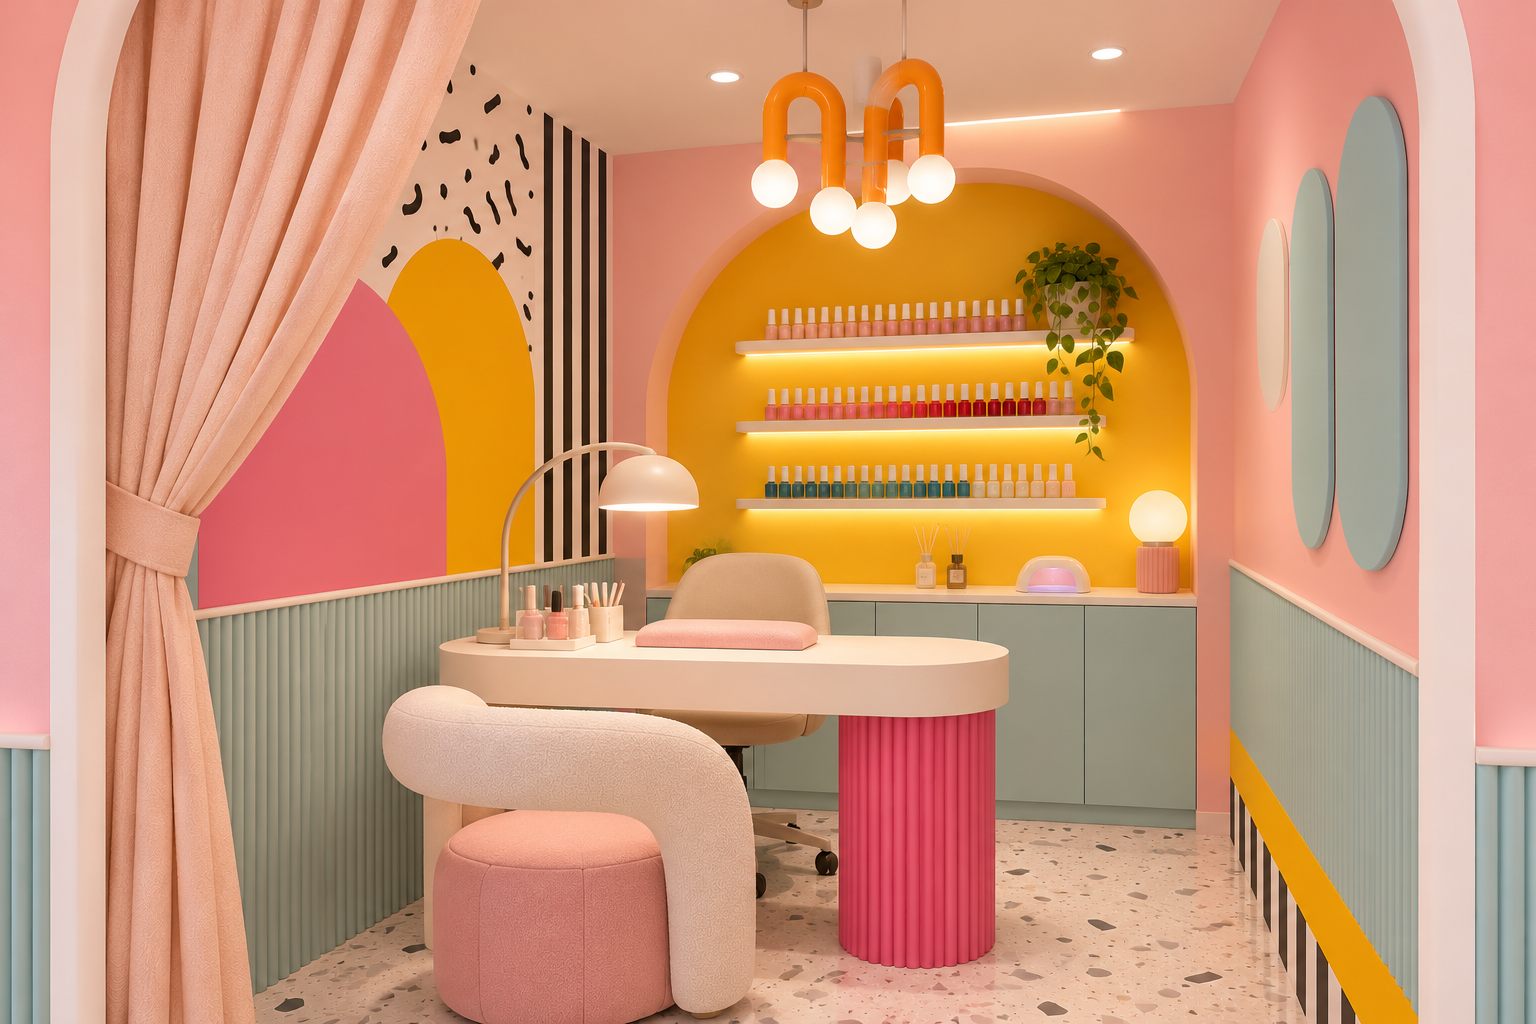
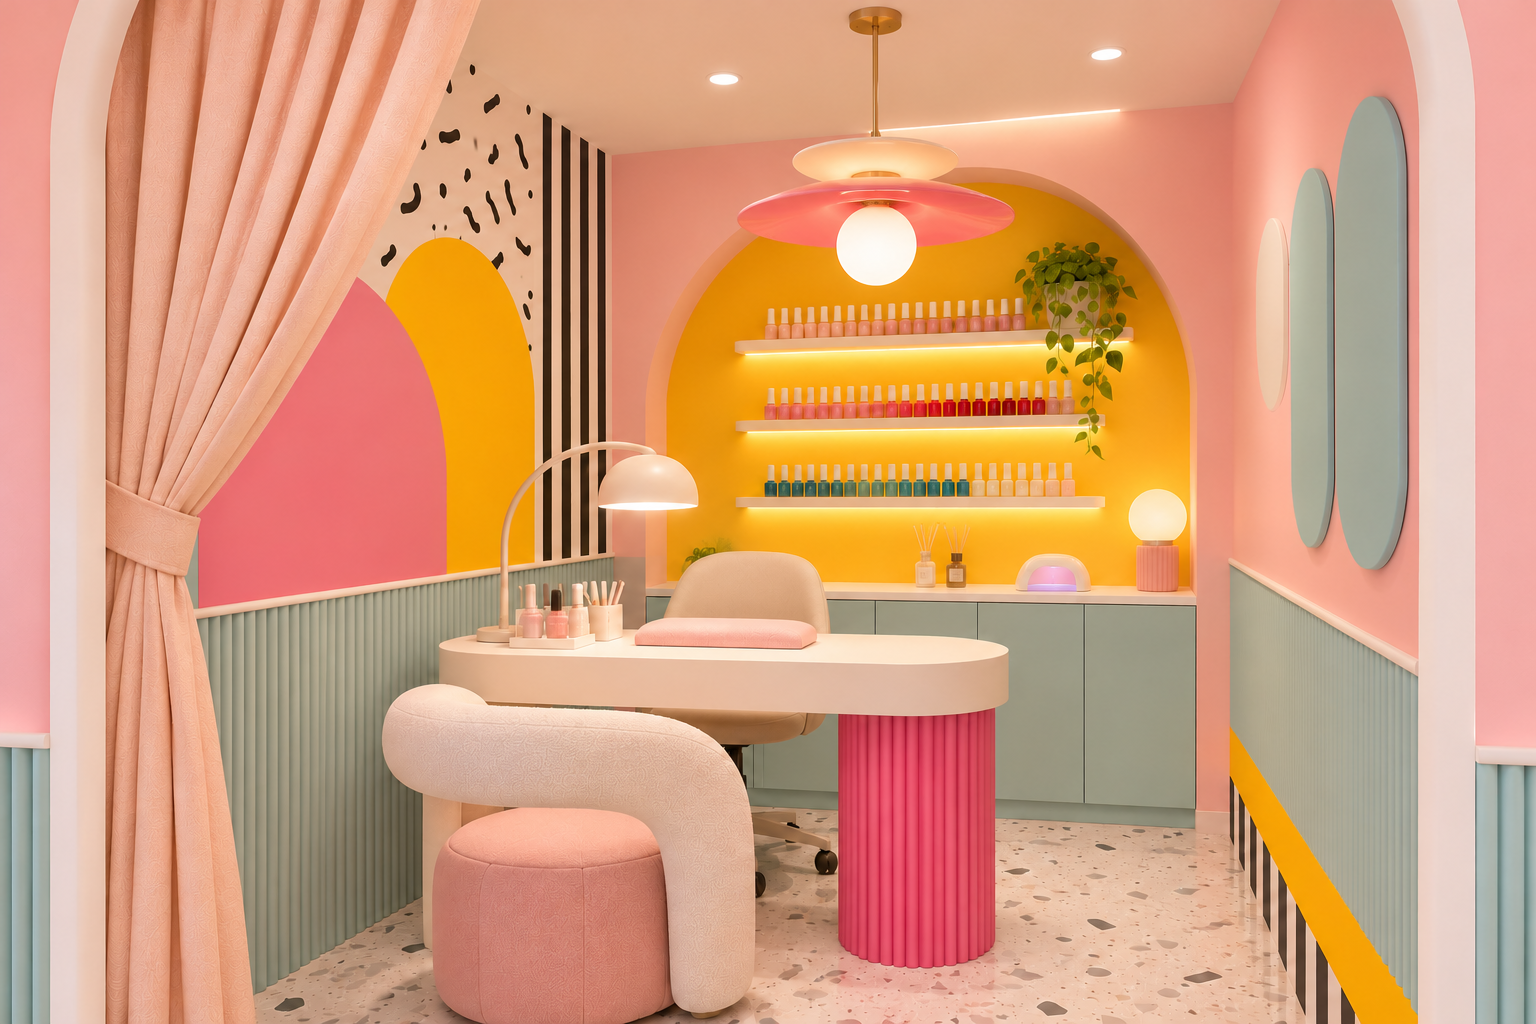
Update Self Love and Saranthai visuals

diff --git a/src/routes/index.tsx b/src/routes/index.tsx
@@ -44,6 +44,7 @@ import cuDormiePrototypeTesting from "../assets/cu-dormie-case-study/prototype-t
 import projectPopFreshFood from "../assets/project-pop-fresh-food.jpg";
 import projectWeR from "../assets/project-we-r.jpg";
 import projectSaranthai from "../assets/project-saranthai.jpg";
+import saranthaiDiningLounge from "../assets/saranthai-dining-lounge.jpg";
 import projectSelfLove from "../assets/project-self-love-new.png";
 import selfLoveManicureArea from "../assets/self-love-manicure-area.png";
 import projectOohJuicy from "../assets/project-ooh-juicy.jpg";
@@ -875,6 +876,25 @@ export function HomePage() {
                     alt="Self Love nail salon manicure area with Memphis-inspired colours and curved forms"
                     width={1536}
                     height={1024}
+                    loading="lazy"
+                    className="mt-5 w-full rounded-[18px] border border-ink/10 object-cover"
+                  />
+                </section>
+              )}
+              {active.id === "interior" && (
+                <section className="pt-3">
+                  <p className="flex items-center gap-2 text-sm font-semibold uppercase tracking-[0.25em] text-pink">
+                    <Sparkle className="h-4 w-4 shrink-0" />
+                    Interior Detail
+                  </p>
+                  <h4 className="mt-4 font-display text-2xl font-bold text-ink">
+                    Cultural dining lounge
+                  </h4>
+                  <img
+                    src={saranthaiDiningLounge}
+                    alt="Saranthai cultural train dining lounge with woven seating and views of Thai craftsmanship"
+                    width={1431}
+                    height={941}
                     loading="lazy"
                     className="mt-5 w-full rounded-[18px] border border-ink/10 object-cover"
                   />
